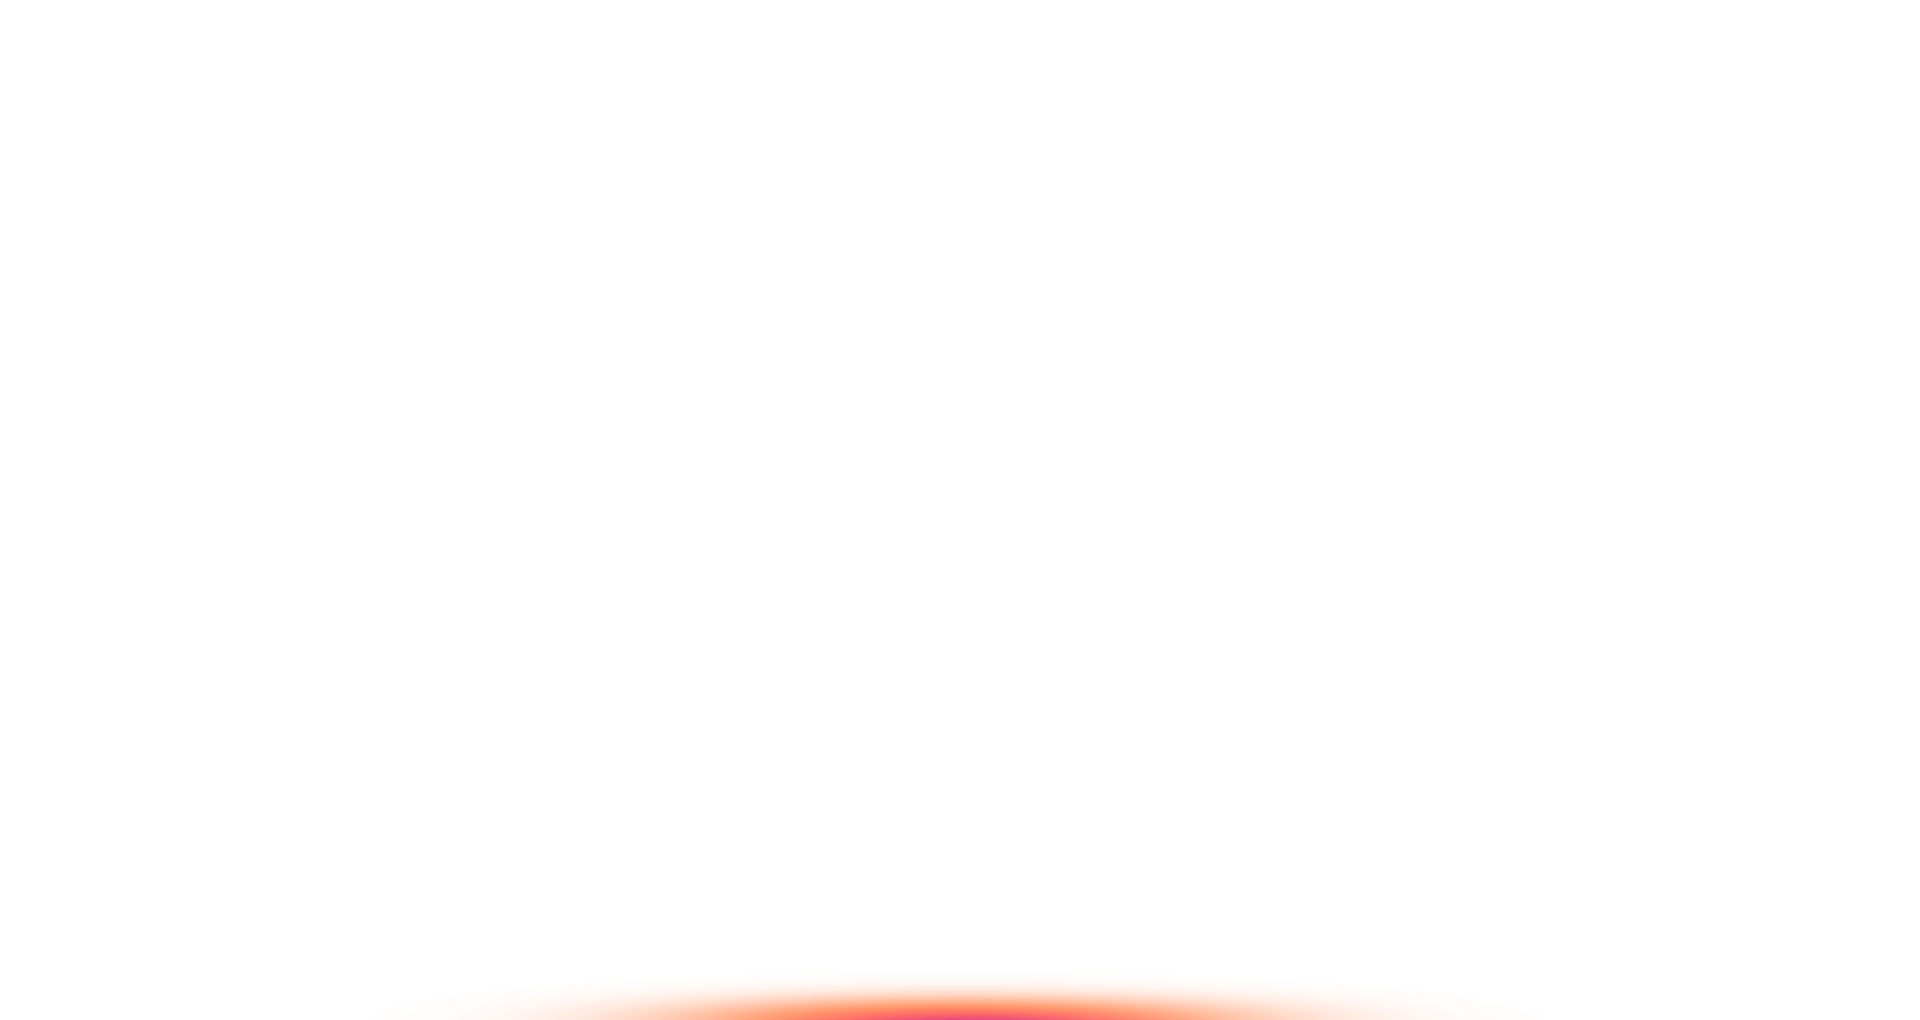
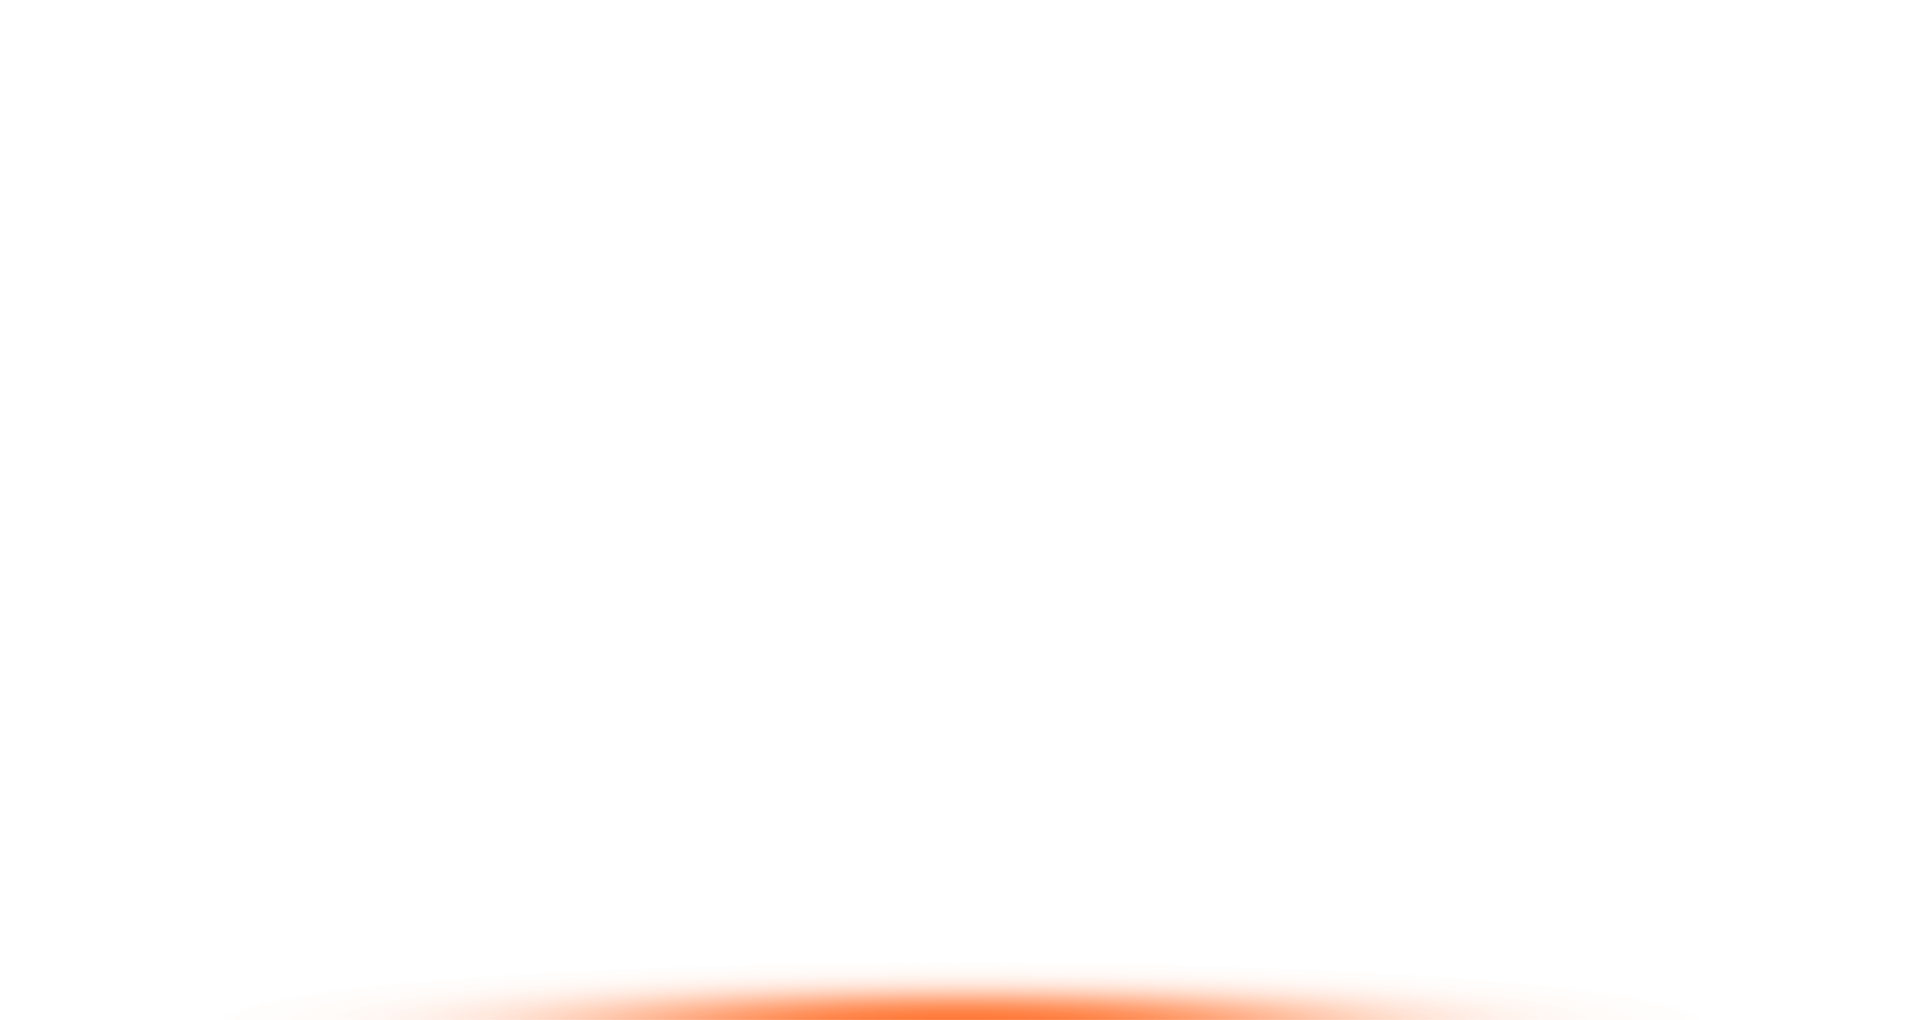
new portfolio display layout

Changed region(s): [[0.25, 0.9422, 0.75, 1.0]]

diff --git a/resources/views/components/portfolio-section.blade.php b/resources/views/components/portfolio-section.blade.php
@@ -1,10 +1,9 @@
 <x-content-section
     :nav_id="'portfolio'"
-    :title="''"
-    :subTitle="''"
+    :title='$portfolio_title'
+    :subTitle='$portfolio_description'
 >
-<div class="bg-zinc-900 border blur-bg border-zinc-800 rounded-lg p-16 pb-32 md:mt-36">
-
+<div class="bg-zinc-900 border blur-bg border-zinc-800 rounded-lg p-4 mt-8 pb-16 pt-8 md:p-16 md:pb-32">
     {{-- Portfolio Grid --}}
     <div class="grid grid-cols-2 gap-4 justify-center items-center md:grid-cols-3 lg:grid-cols-4">
         @foreach ($projects as $project )
@@ -28,13 +27,12 @@
         :link_path="'/admin/projects/create'"
     />
 @endif
-
 </x-content-section>
 <style>
     .blur-bg {
         background-image: url("{{ asset('/img/blur-orange.png') }}");
         background-repeat: no-repeat;
-        background-size: cover;
+        background-size: contain;
         background-position: bottom;
     }
 </style>

diff --git a/resources/views/components/ui/portfolio.blade.php b/resources/views/components/ui/portfolio.blade.php
@@ -2,7 +2,7 @@
 
 {{-- Portfolio Box --}}
 
-<div class="p-3 hover:-translate-y-3  transition-all duration-300 py-8">
+<div class="p-3 hover:-translate-y-3  transition-all duration-300 lg:py-8">
 
 {{--  Portfolio Tags --}}
           <div class="absolute z-10 -ml-4 mt-8 text-sm font-semibold text-white">
@@ -86,10 +86,10 @@
 {{--  End Portfolio Tags }}
 {{-- Project Cover --}}
             <div id="project-cover">
-                <img class=" rounded-xl transition-all duration-200 ease-in-out hover:opacity-90 hover:filter-none "
-                <x-curator-glider :media="$cover" class="rounded-xl"/>
+                <img class="opacity-80 rounded-xl transition-all duration-200 ease-in-out hover:opacity-100"
+                    <x-curator-glider :media="$cover" class="rounded-xl"/>
             </div>
-{{-- Project Title --}}
+
       </div>
 {{-- End Portfolio Box --}}
 

diff --git a/resources/views/components/content-section.blade.php b/resources/views/components/content-section.blade.php
@@ -13,7 +13,7 @@
             </div>
         @endif
         @if ($subTitle !== '')
-            <div class="text-md -mt-8 pb-8 text-center lowercase leading-loose text-zinc-400 lg:-mt-20 lg:pb-24 lg:text-base"
+            <div class="text-sm md:text-md -mt-8 pb-8 text-center lowercase leading-loose text-zinc-400 lg:-mt-20 lg:pb-24 lg:text-base"
                 id="subTitle">{!! $subTitle !!}</div>
         @endif
         <div id="main-content">{{ $slot }}</div>
